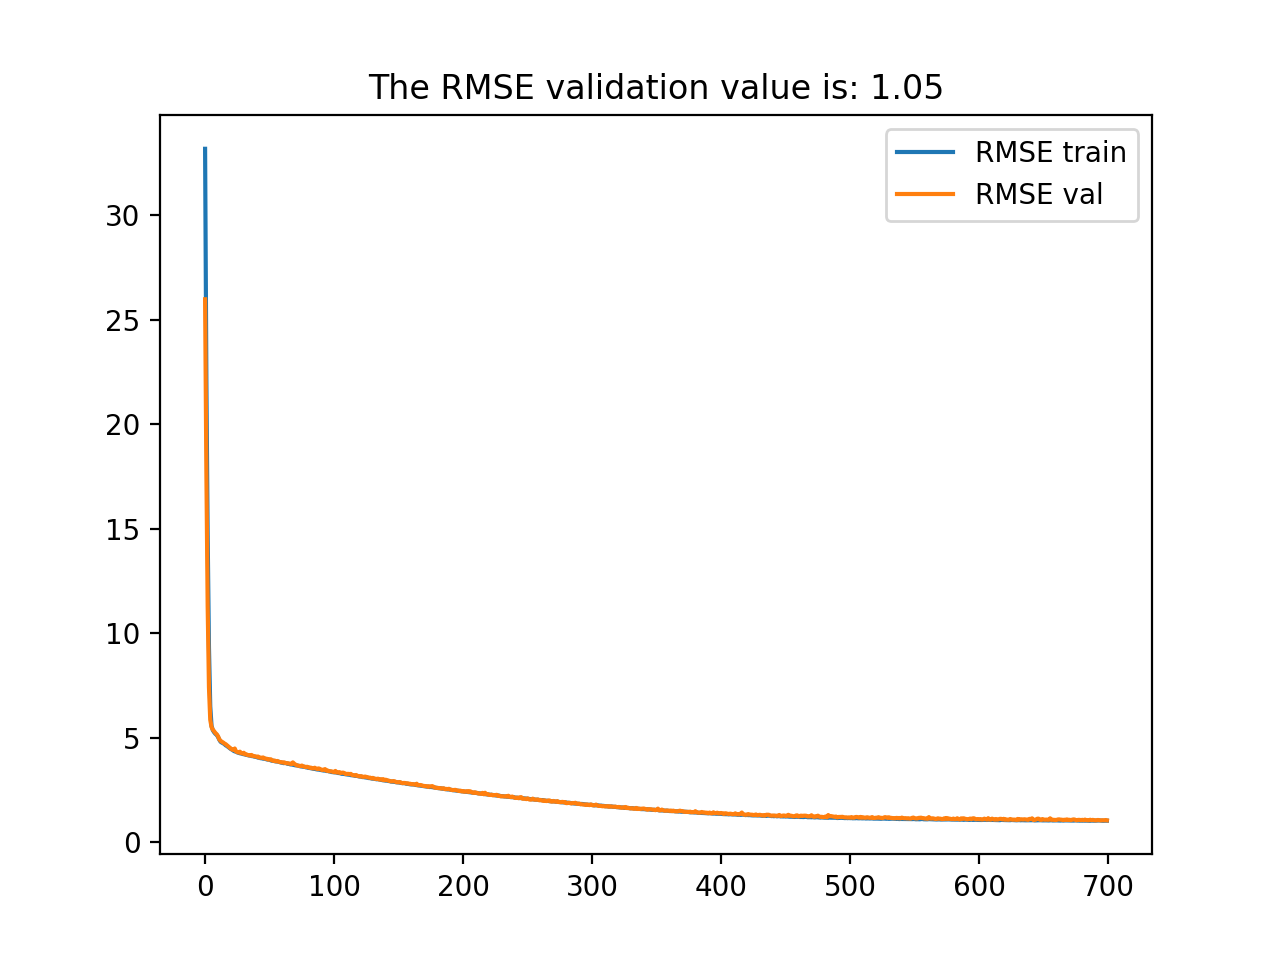
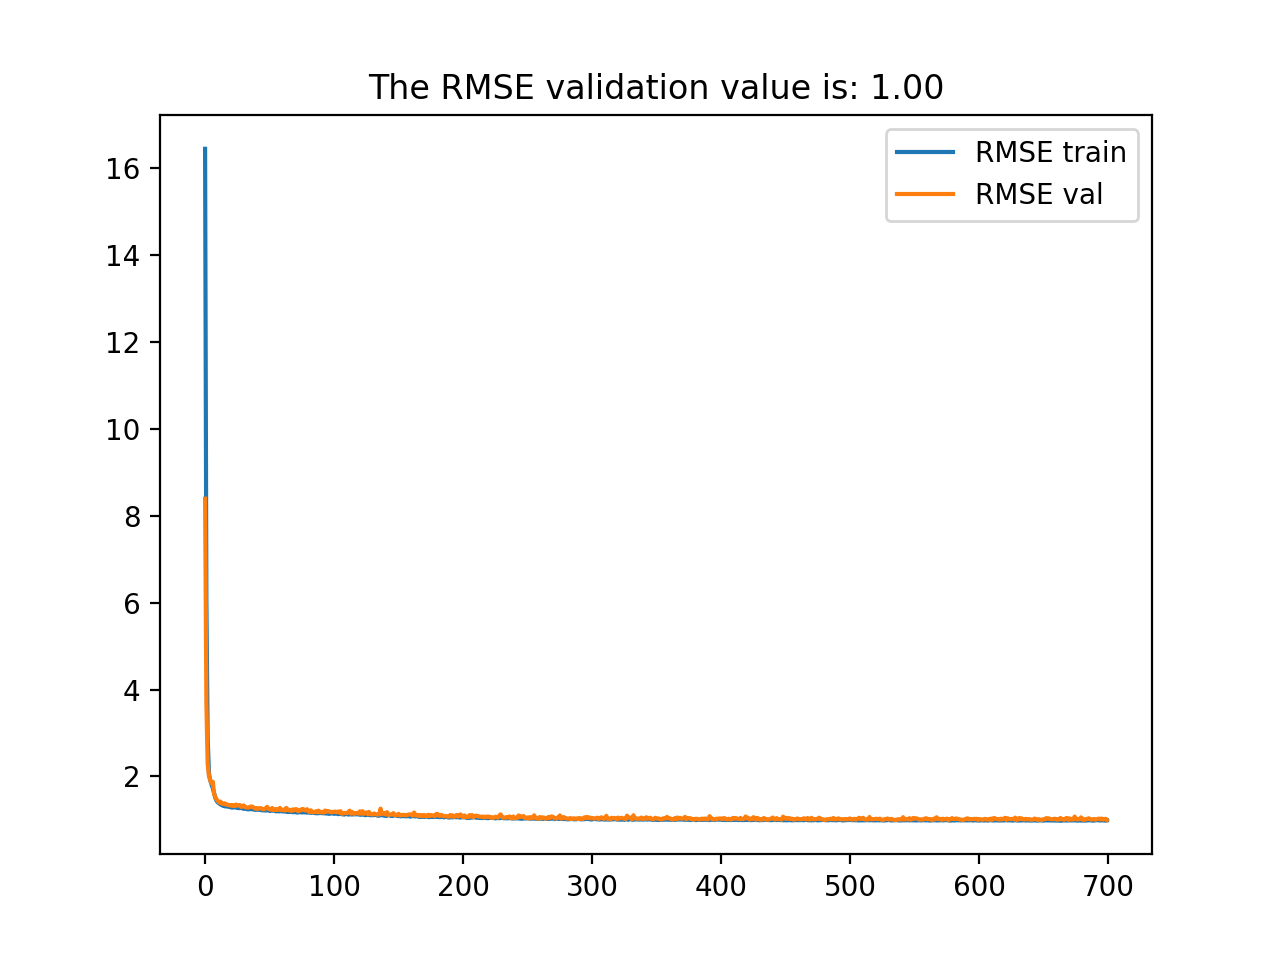
.

diff --git a/code/model_in_functions_lars.py b/code/model_in_functions_lars.py
@@ -61,11 +61,7 @@ def train_neural_network(train_data, train_targets, val_data, val_targets):
     initializer = tf.keras.initializers.he_normal(seed=None)
 
     # set the learning rate for 'Nadam' optimizer
-<<<<<<< HEAD
-    optimizer = tf.keras.optimizers.Nadam(learning_rate=0.003)
-=======
-    optimizer = tf.keras.optimizers.Nadam(learning_rate=0.001)
->>>>>>> fc927f69bd6ed7251b7a522ae9f8b3c2b753efde
+    optimizer = tf.keras.optimizers.Nadam(learning_rate=0.01)
 
     # initialize a neural network
     model = models.Sequential()

diff --git a/docs/Milestone 2/milestone_2_new.md b/docs/Milestone 2/milestone_2_new.md
@@ -105,14 +105,14 @@ Er zijn verschillende configuraties van de batch size en het aantal epochs gepro
 
 ![Tabel met batch size configuraties](https://github.com/larswoudstra/Coronette/blob/main/docs/images/tabel_configuraties_batch_sizes.png)
 
-Met een batch size van 70 en een aantal epochs van 700 is er een validation RMSE van 0.939 bereikt. Dit lijkt voor alsnog de beste configuratie van de batch size en het aantal epochs. Deze learning curve is hieronder te zien: *** Waarschijnlijk is het niet nodig om deze learning curve ook nog te laten zien als we alle waarden al in de tabel hebben. Dan kan het stukje over die 1000 epochs ook weg ***
+Met een batch size van 70 en een aantal epochs van 700 is er een validation RMSE van 0.939 bereikt. Dit lijkt voor alsnog de beste configuratie van de batch size en het aantal epochs. Deze learning curve is hieronder te zien:
 
 ![Learning curve (14x5x1) batch_size = 70, epochs = 700](https://github.com/larswoudstra/Coronette/blob/main/docs/images/14x5x1_70batch_700epoch.png)
 
 Omdat de loss in deze curve nog verder lijkt te dalen, is ook een configuratie met een batch size van 70 en een aantal epochs van 1000 geprobeerd. Hierbij kwam de validation loss niet lager uit: RMSE = 0.977.
 
 # Conclusie Milestone 2
-Tot nu toe geeft het fully-connected Neural Network met een 14x5x1-configuratie, een ReLU-activatiefunctie voor de hidden layer, een lineaire activatiefunctie voor de outputlayer, de 'Nadam' optimizer, een batchsize van 70 en 700 epochs de beste resultaten gebaseerd op de RMSE-metric (Validatie RMSE = 0.94). Het is dus gelukt om in dit model de gemiddelde afwijking van het daadwerkelijke percentage positieve covid-19 tests onder 1% te krijgen. 
+Tot nu toe geeft het fully-connected Neural Network met een 14x5x1-configuratie, een ReLU-activatiefunctie voor de hidden layer, een lineaire activatiefunctie voor de outputlayer, de 'Nadam' optimizer, een batchsize van 70 en 700 epochs de beste resultaten gebaseerd op de RMSE-metric (Validatie RMSE = 0.94). Het is dus gelukt om de gemiddelde afwijking van het daadwerkelijke percentage positieve covid-19 tests onder 1% te krijgen.
 
 In de toekomst zal er geprobeerd worden de kosten verder te minimaliseren, bijvoorbeeld door middel van aanpassingen van de batch size, het aantal epochs of verdere verbeteringen van de architectuur van het netwerk. Ook zal de trainingdata gesplitst worden op testdata, zodat de prestaties van het model getoetst kan worden op nieuwe data.
 
